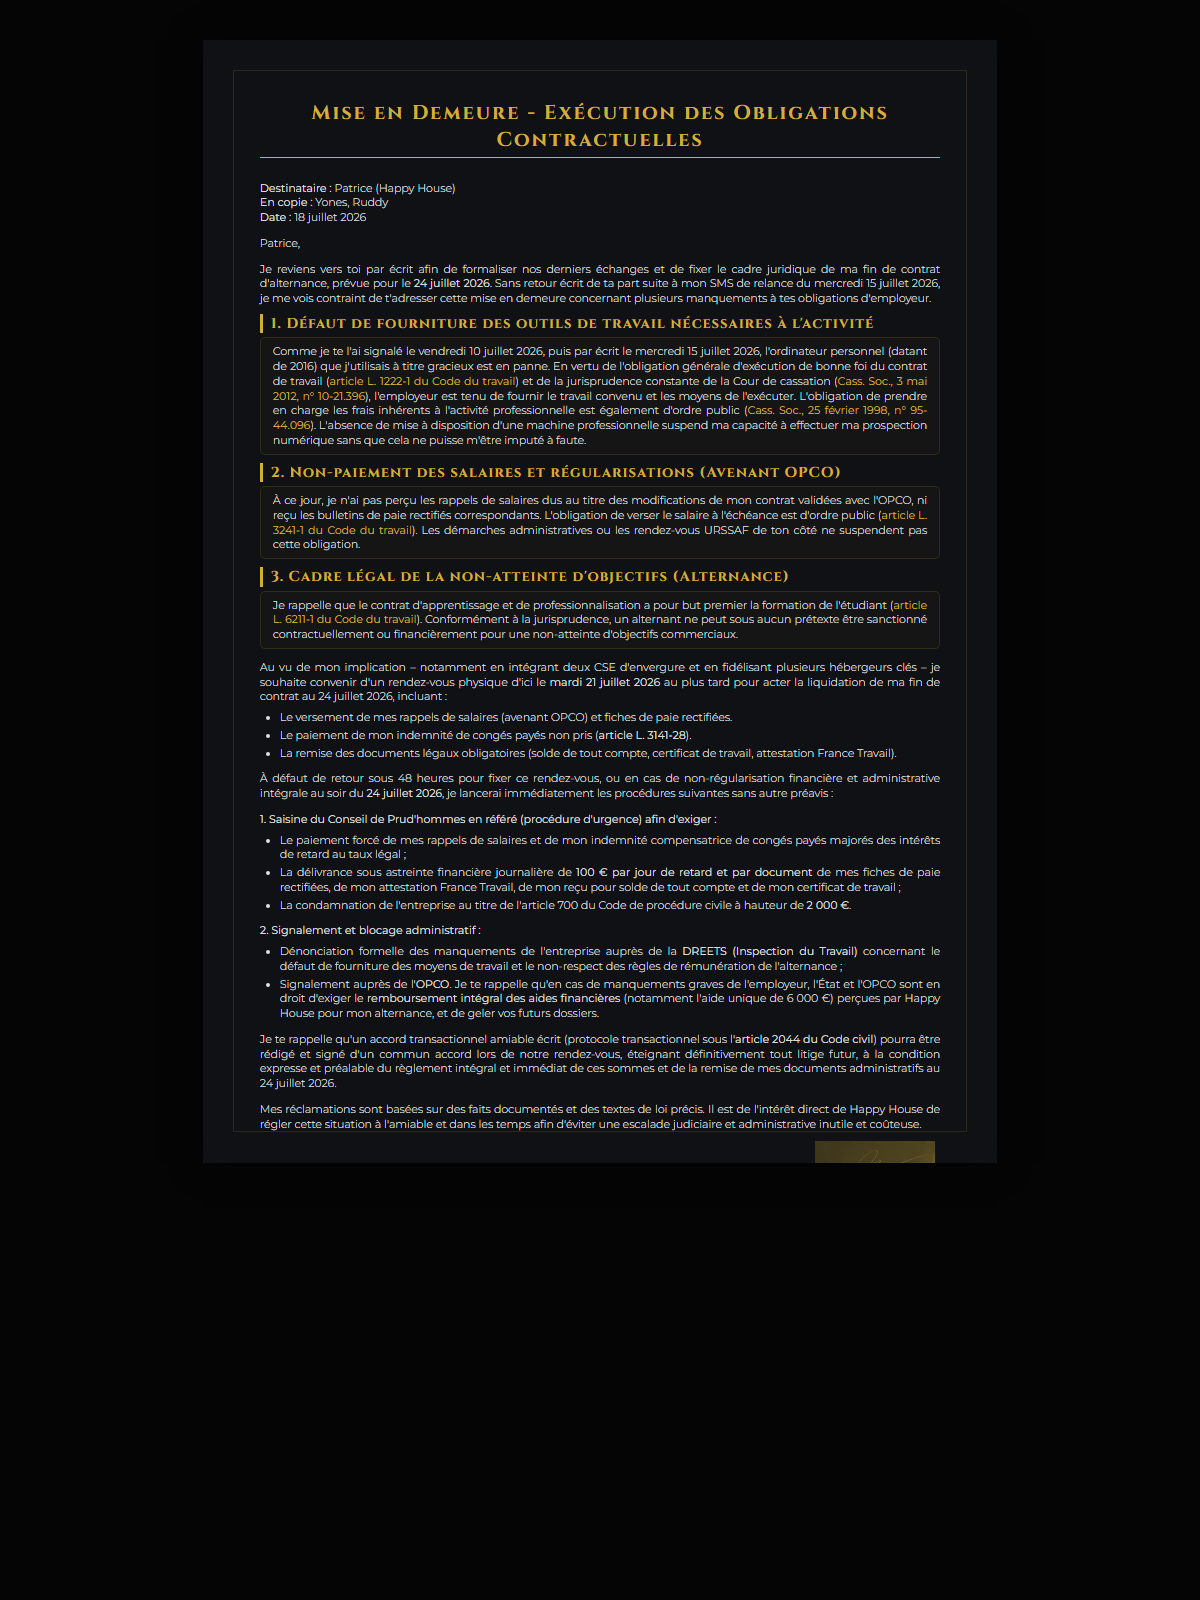
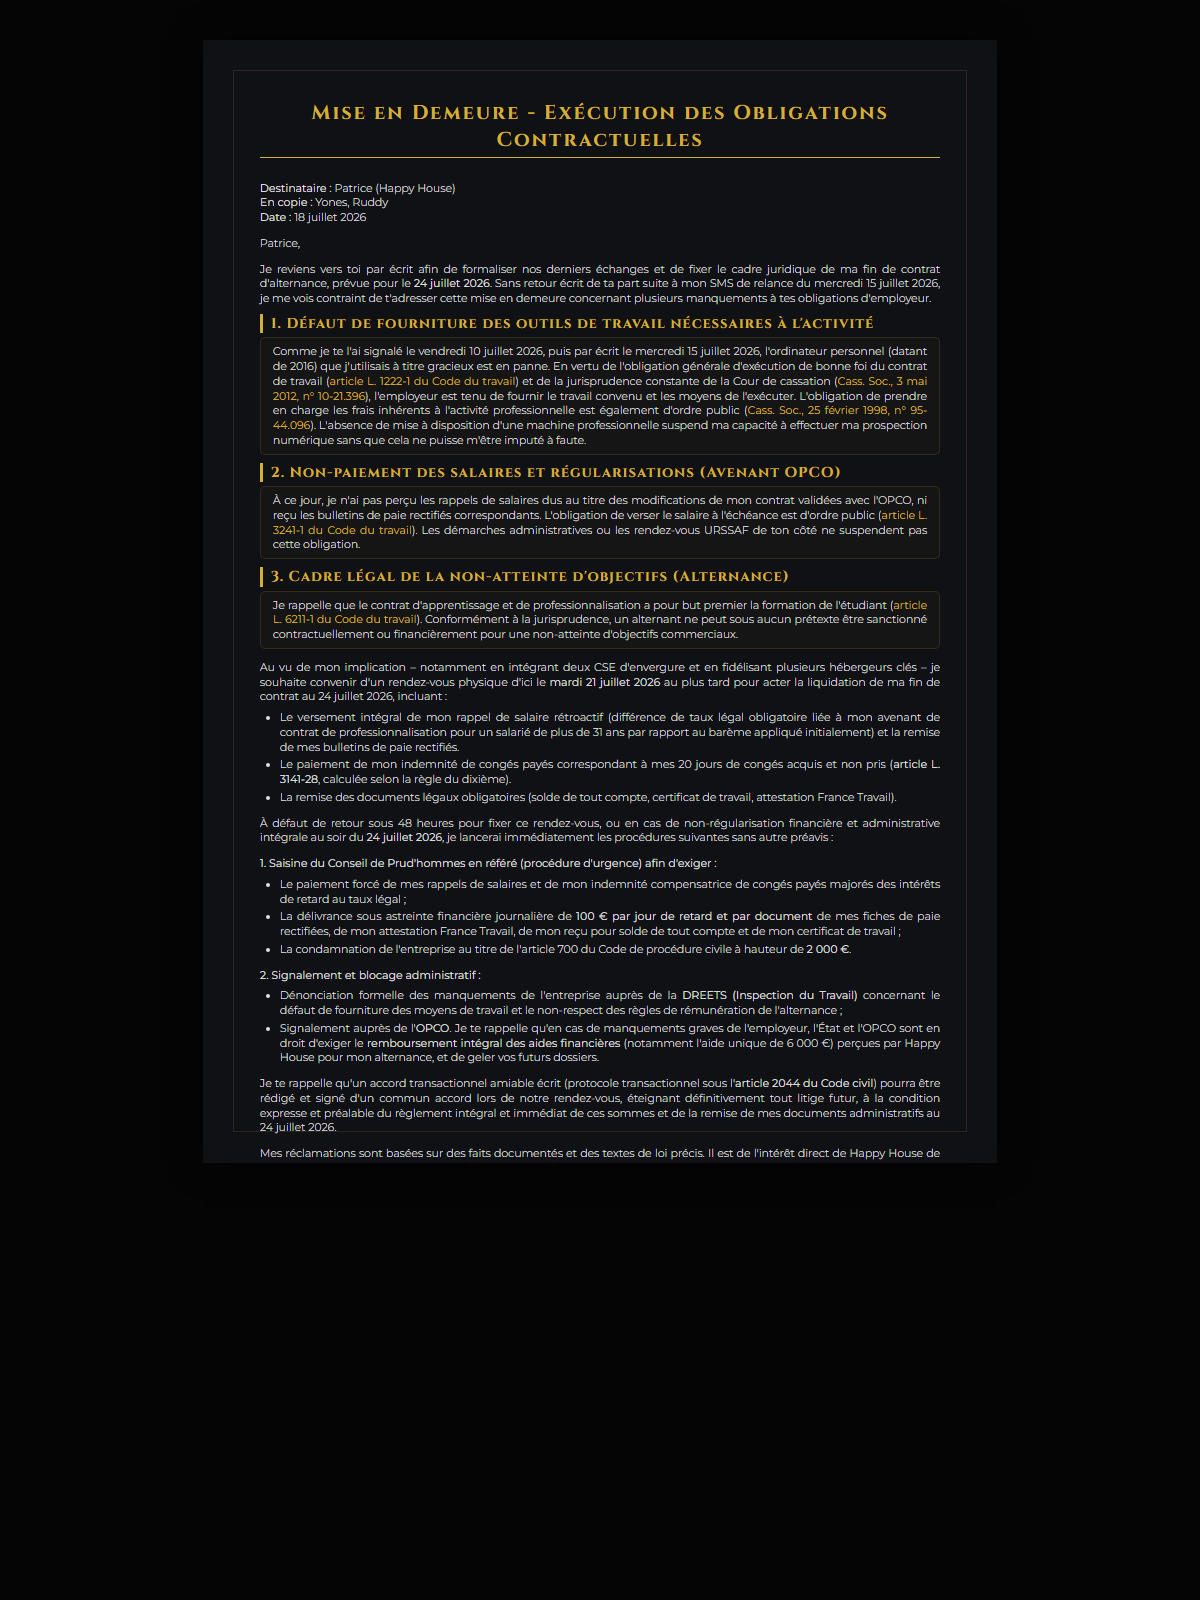
Auto-backup: 2026-07-18 01:14:50

Changed region(s): [[0.2158, 0.4375, 0.8017, 0.75]]

diff --git a/Projets/prospection job/profil generique/01_Admin/2026-07-18_Mise_en_demeure_Happy_House.html b/Projets/prospection job/profil generique/01_Admin/2026-07-18_Mise_en_demeure_Happy_House.html
@@ -28,7 +28,7 @@
             background: var(--bg);
             margin: 40px auto;
             position: relative;
-            padding: 12mm 15mm;
+            padding: 10mm 12mm;
             box-sizing: border-box;
             box-shadow: 0 0 30px rgba(0,0,0,0.5);
             display: flex;
@@ -37,30 +37,30 @@
         }
 
         .inner-border {
-            position: absolute; top: 8mm; left: 8mm; right: 8mm; bottom: 8mm;
+            position: absolute; top: 6mm; left: 6mm; right: 6mm; bottom: 6mm;
             border: 1px solid rgba(212, 175, 55, 0.15); pointer-events: none;
         }
 
-        h1 { font-family: 'Cinzel'; color: var(--accent); text-align: center; border-bottom: 1px solid var(--accent); padding-bottom: 4px; margin-bottom: 12px; font-size: 1.25rem; letter-spacing: 2px; }
-        h2 { font-family: 'Cinzel'; color: var(--accent); border-left: 3px solid var(--accent); padding-left: 8px; margin: 8px 0 4px 0; font-size: 0.9rem; letter-spacing: 1px; }
+        h1 { font-family: 'Cinzel'; color: var(--accent); text-align: center; border-bottom: 1px solid var(--accent); padding-bottom: 3px; margin-bottom: 8px; font-size: 1.15rem; letter-spacing: 2px; }
+        h2 { font-family: 'Cinzel'; color: var(--accent); border-left: 3px solid var(--accent); padding-left: 8px; margin: 6px 0 3px 0; font-size: 0.85rem; letter-spacing: 1px; }
 
-        .content { flex-grow: 1; text-align: justify; font-size: 8.2pt; font-weight: 300; line-height: 1.35; color: #e0e0e0; }
-        .content p { margin-bottom: 6px; }
-        ul { margin: 4px 0 8px 0; padding-left: 20px; }
-        li { margin-bottom: 3px; }
+        .content { flex-grow: 1; text-align: justify; font-size: 7.8pt; font-weight: 300; line-height: 1.3; color: #e0e0e0; }
+        .content p { margin-bottom: 4px; }
+        ul { margin: 2px 0 4px 0; padding-left: 18px; }
+        li { margin-bottom: 2px; }
         
         .legal-block {
             background: rgba(212, 175, 55, 0.03);
             border: 1px solid rgba(212, 175, 55, 0.15);
-            padding: 6px 12px;
-            margin-bottom: 6px;
+            padding: 4px 10px;
+            margin-bottom: 4px;
             border-radius: 5px;
         }
         .legal-block strong { color: var(--accent); }
 
         .footer {
-            border-top: 1px solid rgba(212, 175, 55, 0.2); padding-top: 2mm;
-            display: flex; justify-content: space-between; font-family: 'Cinzel'; font-size: 7pt; color: rgba(176, 176, 176, 0.5);
+            border-top: 1px solid rgba(212, 175, 55, 0.2); padding-top: 1.5mm;
+            display: flex; justify-content: space-between; font-family: 'Cinzel'; font-size: 6.5pt; color: rgba(176, 176, 176, 0.5);
             margin-top: auto;
         }
     </style>
